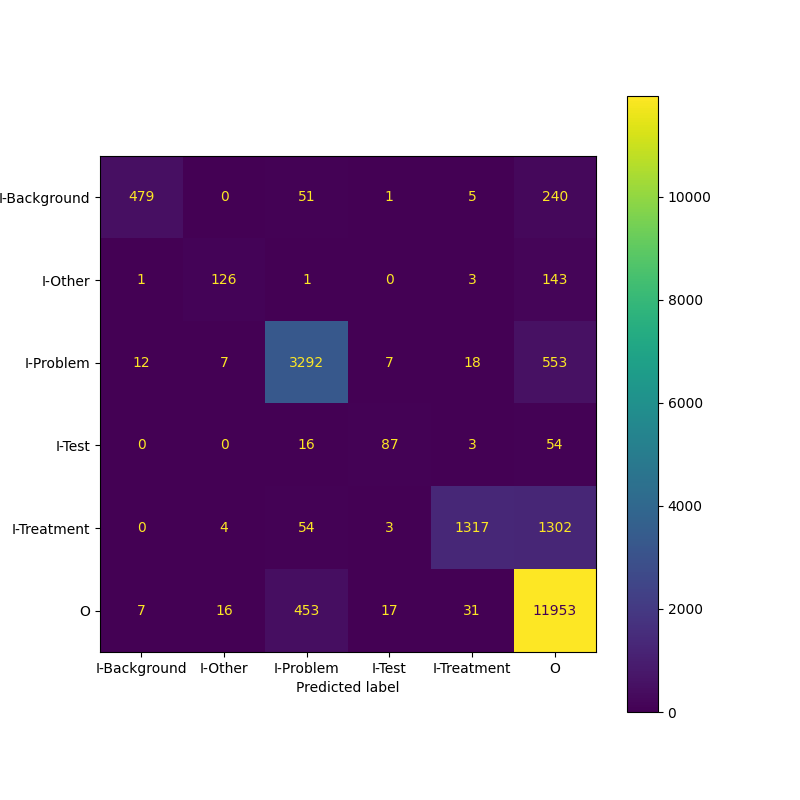
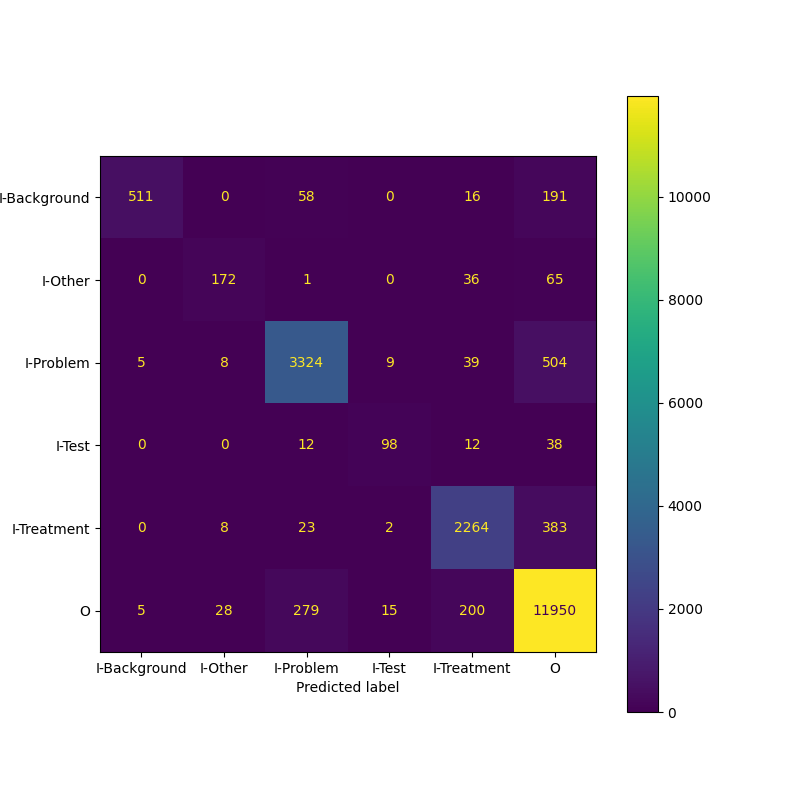
bertclinical results

diff --git a/bert_crf_trainer.py b/bert_crf_trainer.py
@@ -261,7 +261,7 @@ for i in range(1):
   training_args = TrainingArguments(
       output_dir=f'models/bert-crf-ner/fold{i}',
       overwrite_output_dir=True,
-      num_train_epochs=1,
+      num_train_epochs=5,
       per_device_train_batch_size=4,
       per_device_eval_batch_size=4,
       evaluation_strategy="epoch",
